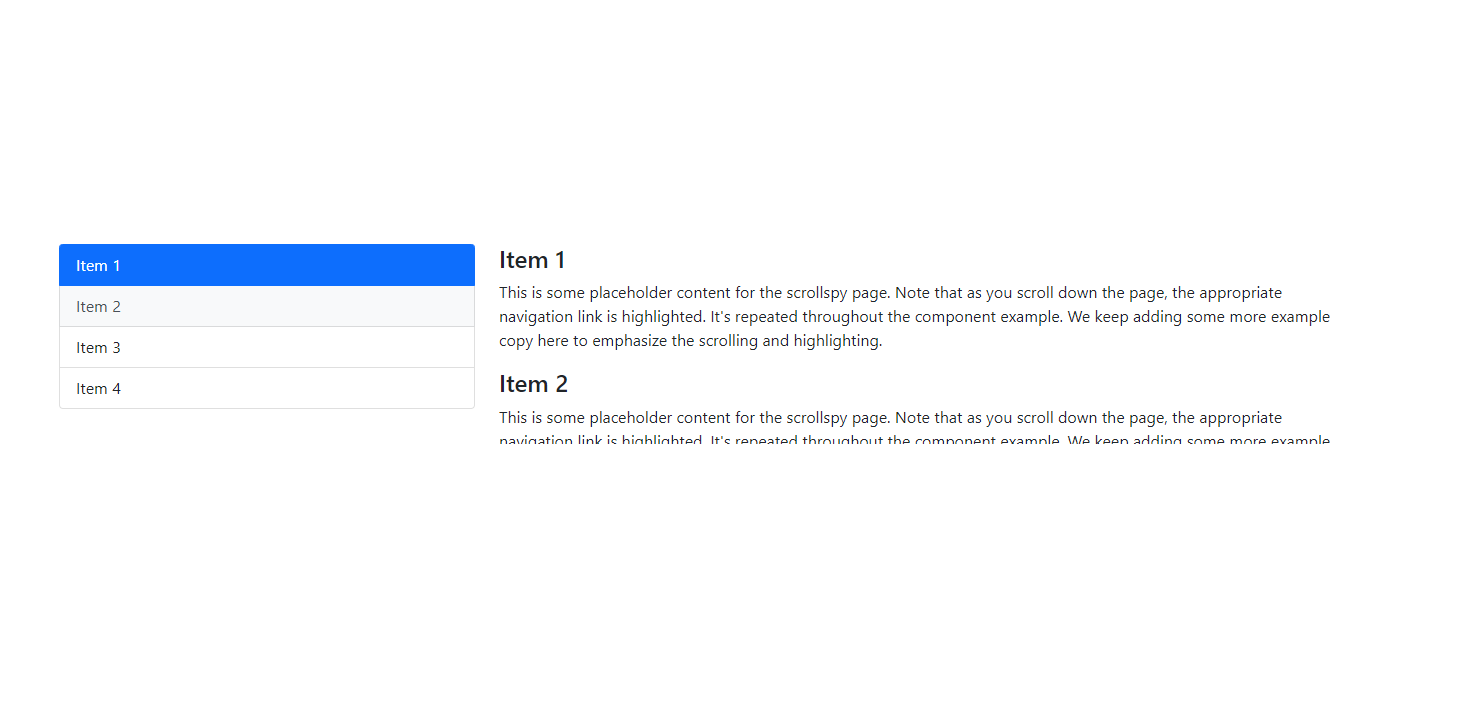
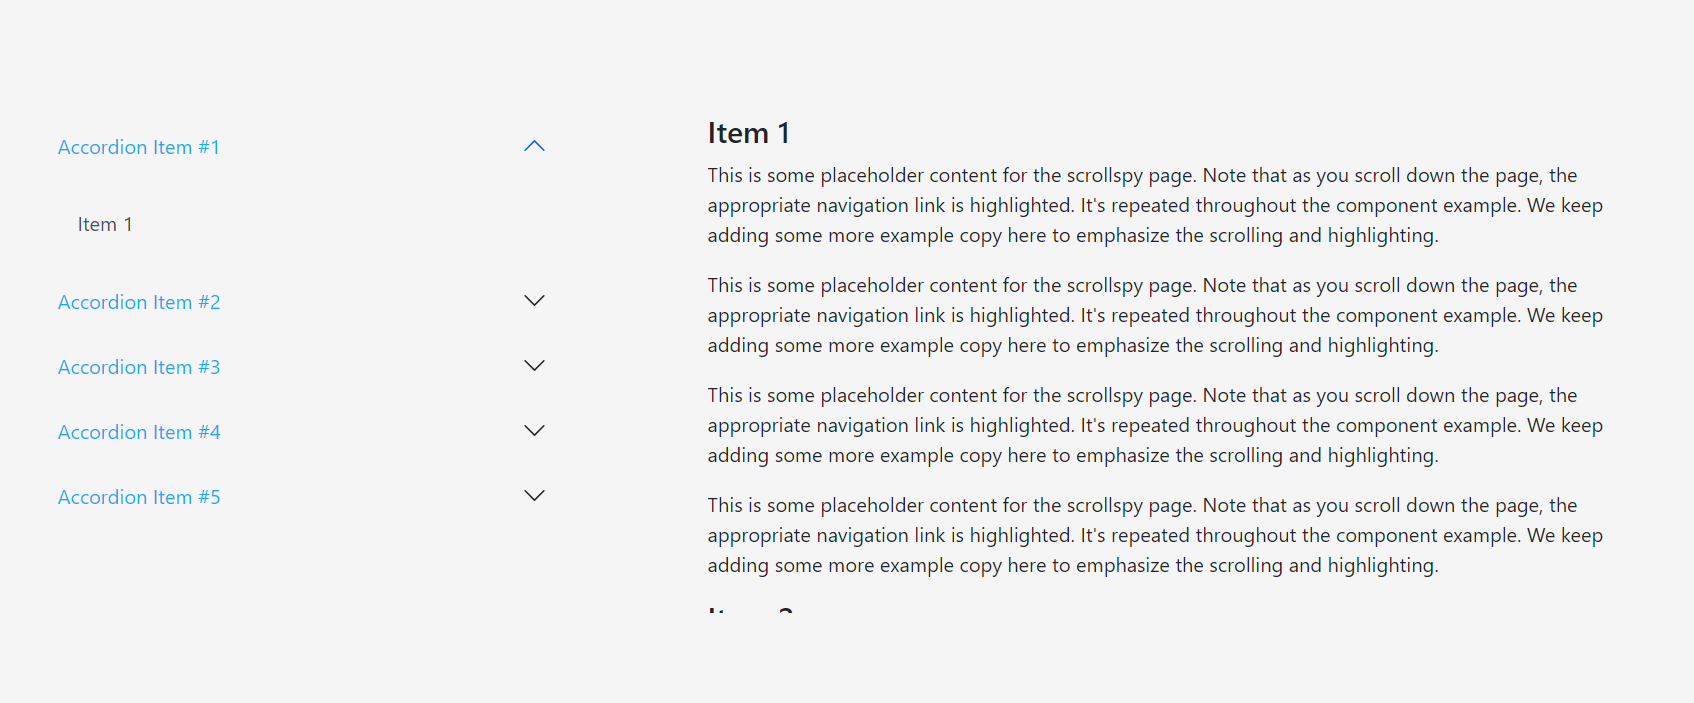
:sparkles: customizing scrollSpy

diff --git a/08_scrollSpy/index.html b/08_scrollSpy/index.html
@@ -2,63 +2,138 @@
   Exemplo de ScrollSpy com Bootstrap
  -->
 
- <!doctype html>
- <html lang="pt-BR">
-   <head>
+<!doctype html>
+<html lang="pt-BR">
+    <head>
      
-     <!-- Required meta tags -->
-     <meta charset="utf-8">
-     <meta name="viewport" content="width=device-width, initial-scale=1">
- 
-     <!-- Bootstrap CSS -->
-     <link href="https://cdn.jsdelivr.net/npm/bootstrap@5.1.3/dist/css/bootstrap.min.css" rel="stylesheet" integrity="sha384-1BmE4kWBq78iYhFldvKuhfTAU6auU8tT94WrHftjDbrCEXSU1oBoqyl2QvZ6jIW3" crossorigin="anonymous">
- 
-     <title>Hello, world!</title>
+      <!-- Required meta tags -->
+      <meta charset="utf-8">
+      <meta name="viewport" content="width=device-width, initial-scale=1">
+  
+      <!-- Bootstrap CSS -->
+      <link href="https://cdn.jsdelivr.net/npm/bootstrap@5.1.3/dist/css/bootstrap.min.css" rel="stylesheet" integrity="sha384-1BmE4kWBq78iYhFldvKuhfTAU6auU8tT94WrHftjDbrCEXSU1oBoqyl2QvZ6jIW3" crossorigin="anonymous">
+  
+      <!-- CSS -->
+      <link href="style.css" rel="stylesheet">
 
-     <style>
-        body {
-            display: flex;
-            justify-content: center;
-            align-items: center;
-            height: 100vh;
-        }
-        .scrollspy-right {
-            position: relative;
-            overflow: auto;
-            height: 200px;
-        }
-        .scrollspy-right::-webkit-scrollbar, .scrollspy-right::-webkit-scrollbar-thumb {
-          width: 1px;
-        }
-     </style>
+      <title>Hello, world!</title>
+
+      <style>
+          .scrollspy-right {
+              position: relative;
+              overflow: auto;
+              height: 400px;
+          }
+          .scrollspy-right::-webkit-scrollbar, .scrollspy-right::-webkit-scrollbar-thumb {
+            width: 1px;
+          }
+      </style>
  
-   </head>
-   <body>
+    </head>
+  <body>
+
+    <nav style="margin-bottom: 200px;">este é o navbar</nav>
  
-    <div class="container">
-        <div class="row">
-            <div class="col-4">
-              <div id="list-example" class="list-group">
-                <a class="list-group-item list-group-item-action" href="#list-item-1">Item 1</a>
-                <a class="list-group-item list-group-item-action" href="#list-item-2">Item 2</a>
-                <a class="list-group-item list-group-item-action" href="#list-item-3">Item 3</a>
-                <a class="list-group-item list-group-item-action" href="#list-item-4">Item 4</a>
-              </div>
-            </div>
-            <div class="col-8">
-              <div data-bs-spy="scroll" data-bs-target="#list-example" data-bs-smooth-scroll="true" class="scrollspy-example scrollspy-right" tabindex="0">
-                <h4 id="list-item-1">Item 1</h4>
-                <p>This is some placeholder content for the scrollspy page. Note that as you scroll down the page, the appropriate navigation link is highlighted. It's repeated throughout the component example. We keep adding some more example copy here to emphasize the scrolling and highlighting.</p>
-                <h4 id="list-item-2">Item 2</h4>
-                <p>This is some placeholder content for the scrollspy page. Note that as you scroll down the page, the appropriate navigation link is highlighted. It's repeated throughout the component example. We keep adding some more example copy here to emphasize the scrolling and highlighting.</p>
-                <h4 id="list-item-3">Item 3</h4>
-                <p>This is some placeholder content for the scrollspy page. Note that as you scroll down the page, the appropriate navigation link is highlighted. It's repeated throughout the component example. We keep adding some more example copy here to emphasize the scrolling and highlighting.</p>
-                <h4 id="list-item-4">Item 4</h4>
-                <p>This is some placeholder content for the scrollspy page. Note that as you scroll down the page, the appropriate navigation link is highlighted. It's repeated throughout the component example. We keep adding some more example copy here to emphasize the scrolling and highlighting.</p>
+    <div class="container d-flex justify-content-center justify-content-xxl-between justify-content-xl-between justify-content-lg-between align-items-center align-items-xxl-start align-items-xl-start align-items-lg-start flex-column flex-xxl-row flex-xl-row flex-lg-row">
+      
+      <div class="col-xxl-4 col-xl-4 col-lg-4 col-12">
+        <div class="accordion" id="accordionExample">
+          <div class="accordion-item">
+            <h2 class="accordion-header">
+              <button class="accordion-button" type="button" data-bs-toggle="collapse" data-bs-target="#collapseOne" aria-expanded="true" aria-controls="collapseOne">
+                Accordion Item #1
+              </button>
+            </h2>
+            <div id="collapseOne" class="accordion-collapse collapse show" data-bs-parent="#accordionExample">
+              <div class="accordion-body">
+                <div id="list-example" class="list-group">
+                  <a class="list-group-item list-group-item-action" href="#list-item-1">Item 1</a>            
+                </div>
               </div>
             </div>
           </div>
+          <div class="accordion-item">
+            <h2 class="accordion-header">
+              <button class="accordion-button collapsed" type="button" data-bs-toggle="collapse" data-bs-target="#collapseTwo" aria-expanded="false" aria-controls="collapseTwo">
+                Accordion Item #2
+              </button>
+            </h2>
+            <div id="collapseTwo" class="accordion-collapse collapse" data-bs-parent="#accordionExample">
+              <div class="accordion-body">
+                <div id="list-example" class="list-group">
+                  <a class="list-group-item list-group-item-action" href="#list-item-2">Item 2</a>
+                </div>
+              </div>
+            </div>
+          </div>
+          <div class="accordion-item">
+            <h2 class="accordion-header">
+              <button class="accordion-button collapsed" type="button" data-bs-toggle="collapse" data-bs-target="#collapseThree" aria-expanded="false" aria-controls="collapseThree">
+                Accordion Item #3
+              </button>
+            </h2>
+            <div id="collapseThree" class="accordion-collapse collapse" data-bs-parent="#accordionExample">
+              <div class="accordion-body">
+                <div id="list-example" class="list-group">
+                  <a class="list-group-item list-group-item-action" href="#list-item-3">Item 3</a>
+                </div>
+              </div>
+            </div>
+          </div>
+          <div class="accordion-item">
+            <h2 class="accordion-header">
+              <button class="accordion-button collapsed" type="button" data-bs-toggle="collapse" data-bs-target="#collapseFour" aria-expanded="false" aria-controls="collapseFour">
+                Accordion Item #4
+              </button>
+            </h2>
+            <div id="collapseFour" class="accordion-collapse collapse" data-bs-parent="#accordionExample">
+              <div class="accordion-body">
+                <div id="list-example" class="list-group">
+                  <a class="list-group-item list-group-item-action" href="#list-item-4">Item 4</a>
+                </div>
+              </div>
+            </div>
+          </div>
+          <div class="accordion-item">
+            <h2 class="accordion-header">
+              <button class="accordion-button collapsed" type="button" data-bs-toggle="collapse" data-bs-target="#collapseFive" aria-expanded="false" aria-controls="collapseFive">
+                Accordion Item #5
+              </button>
+            </h2>
+            <div id="collapseFive" class="accordion-collapse collapse" data-bs-parent="#accordionExample">
+              <div class="accordion-body">
+                <div id="list-example" class="list-group">
+                  <a class="list-group-item list-group-item-action" href="#list-item-5">Item 5</a>
+                </div>
+              </div>
+            </div>
+          </div>
+        </div>
+      </div>
+      <div class="col-xxl-7 col-xl-7 col-lg-7 col-12">
+        <div data-bs-spy="scroll" data-bs-target="#list-example" data-bs-smooth-scroll="true" class="scrollspy-example scrollspy-right" tabindex="0">
+          <h4 id="list-item-1">Item 1</h4>
+          <p>This is some placeholder content for the scrollspy page. Note that as you scroll down the page, the appropriate navigation link is highlighted. It's repeated throughout the component example. We keep adding some more example copy here to emphasize the scrolling and highlighting.</p>
+          <p>This is some placeholder content for the scrollspy page. Note that as you scroll down the page, the appropriate navigation link is highlighted. It's repeated throughout the component example. We keep adding some more example copy here to emphasize the scrolling and highlighting.</p>
+          <p>This is some placeholder content for the scrollspy page. Note that as you scroll down the page, the appropriate navigation link is highlighted. It's repeated throughout the component example. We keep adding some more example copy here to emphasize the scrolling and highlighting.</p>
+          <p>This is some placeholder content for the scrollspy page. Note that as you scroll down the page, the appropriate navigation link is highlighted. It's repeated throughout the component example. We keep adding some more example copy here to emphasize the scrolling and highlighting.</p>
+          <h4 id="list-item-2">Item 2</h4>
+          <p>This is some placeholder content for the scrollspy page. Note that as you scroll down the page, the appropriate navigation link is highlighted. It's repeated throughout the component example. We keep adding some more example copy here to emphasize the scrolling and highlighting.</p>
+          <h4 id="list-item-3">Item 3</h4>
+          <p>This is some placeholder content for the scrollspy page. Note that as you scroll down the page, the appropriate navigation link is highlighted. It's repeated throughout the component example. We keep adding some more example copy here to emphasize the scrolling and highlighting.</p>
+          <h4 id="list-item-4">Item 4</h4>
+          <p>This is some placeholder content for the scrollspy page. Note that as you scroll down the page, the appropriate navigation link is highlighted. It's repeated throughout the component example. We keep adding some more example copy here to emphasize the scrolling and highlighting.</p>
+          <h4 id="list-item-5">item 5</h4>
+          <p>This is some placeholder content for the scrollspy page. Note that as you scroll down the page, the appropriate navigation link is highlighted. It's repeated throughout the component example. We keep adding some more example copy here to emphasize the scrolling and highlighting.</p>
+          <p>This is some placeholder content for the scrollspy page. Note that as you scroll down the page, the appropriate navigation link is highlighted. It's repeated throughout the component example. We keep adding some more example copy here to emphasize the scrolling and highlighting.</p>
+          <p>This is some placeholder content for the scrollspy page. Note that as you scroll down the page, the appropriate navigation link is highlighted. It's repeated throughout the component example. We keep adding some more example copy here to emphasize the scrolling and highlighting.</p>
+          <p>This is some placeholder content for the scrollspy page. Note that as you scroll down the page, the appropriate navigation link is highlighted. It's repeated throughout the component example. We keep adding some more example copy here to emphasize the scrolling and highlighting.</p>
+        </div>
+      </div>
+      
     </div>
+
+    <div style="margin-top: 200px;">este e o footer</div>
  
  
      <!-- Option 1: Bootstrap Bundle with Popper -->
@@ -66,6 +141,25 @@
  
      <!-- Jquery CDN -->
      <script src="https://code.jquery.com/jquery-3.6.0.min.js" integrity="sha256-/xUj+3OJU5yExlq6GSYGSHk7tPXikynS7ogEvDej/m4=" crossorigin="anonymous"></script>
-     
+     <script>
+      // Função para rolagem suave
+      function scrollToSection(target) {
+        document.querySelector(target).scrollIntoView({
+          behavior: 'smooth'
+        });
+      }
+
+      // Obter todos os links da lista
+      var listLinks = document.querySelectorAll('#list-example a');
+
+      // Adicionar o evento de clique a cada link
+      listLinks.forEach(function(link) {
+        link.addEventListener('click', function(e) {
+          e.preventDefault(); // Impedir o comportamento padrão do link
+          var target = this.getAttribute('href'); // Obter o destino da rolagem
+          scrollToSection(target); // Chamar a função de rolagem suave
+        });
+      });
+     </script>
    </body>
  </html>

diff --git a/08_scrollSpy/style.css b/08_scrollSpy/style.css
@@ -1,0 +1,38 @@
+body {
+  background-color: #f5f5f5;
+}
+.accordion-button:focus {
+  z-index: unset;
+  border-color: unset;
+  outline: none;
+  box-shadow: none;
+}
+.list-group-item.active {
+  z-index: unset;
+  color: unset;
+  background-color: unset;
+  border: unset;
+}
+.accordion-item {
+  background-color: #f5f5f5;
+  border: unset;
+}
+.accordion-button {
+  background-color: #f5f5f5;
+}
+.accordion-button:not(.collapsed) {
+  color: rgb(18, 173, 238);
+  background-color: unset;
+  box-shadow: unset;
+}
+.list-group-item {
+  background-color: #f5f5f5;
+  border: unset;
+}
+.list-group-item-action:focus, .list-group-item-action:hover {
+  color: #495057;
+  background-color: #f5f5f5;
+}
+.accordion-button {
+  color: rgb(18, 173, 238);
+}
